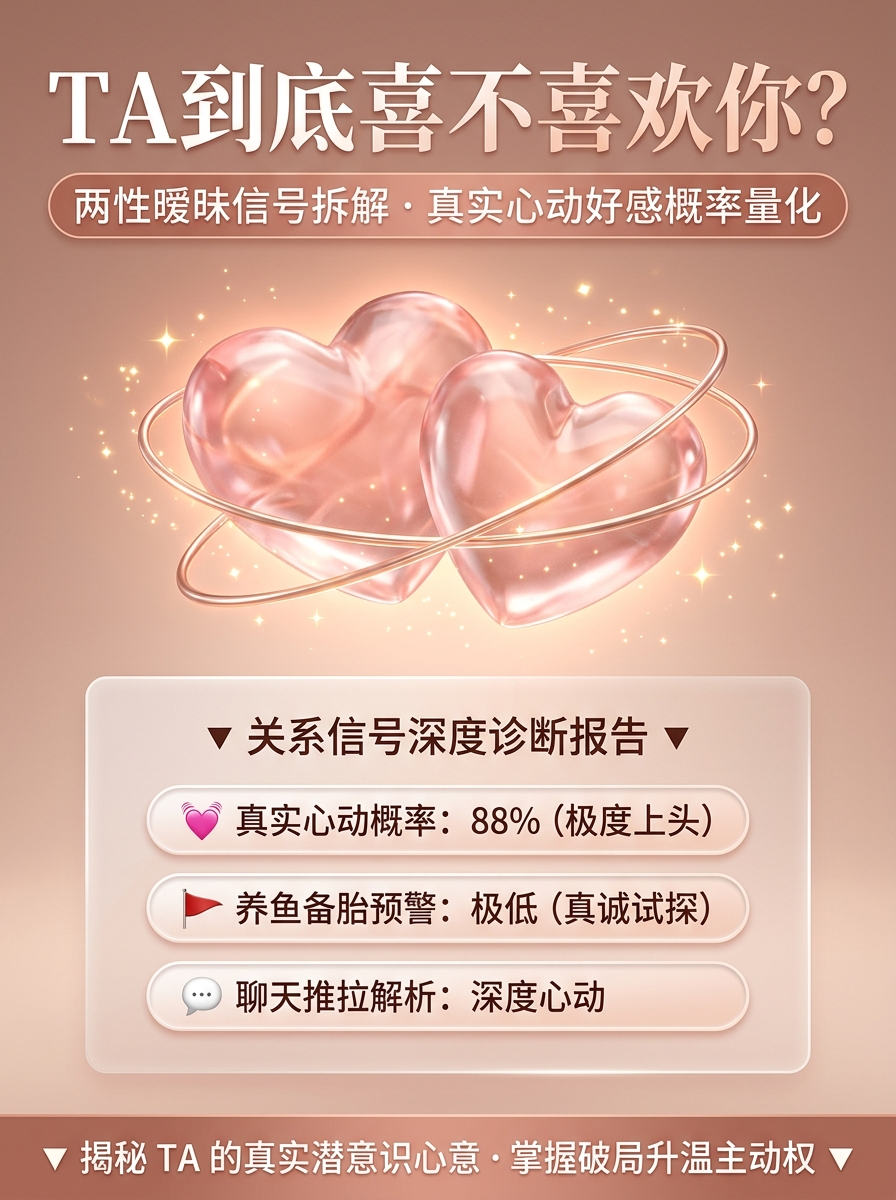
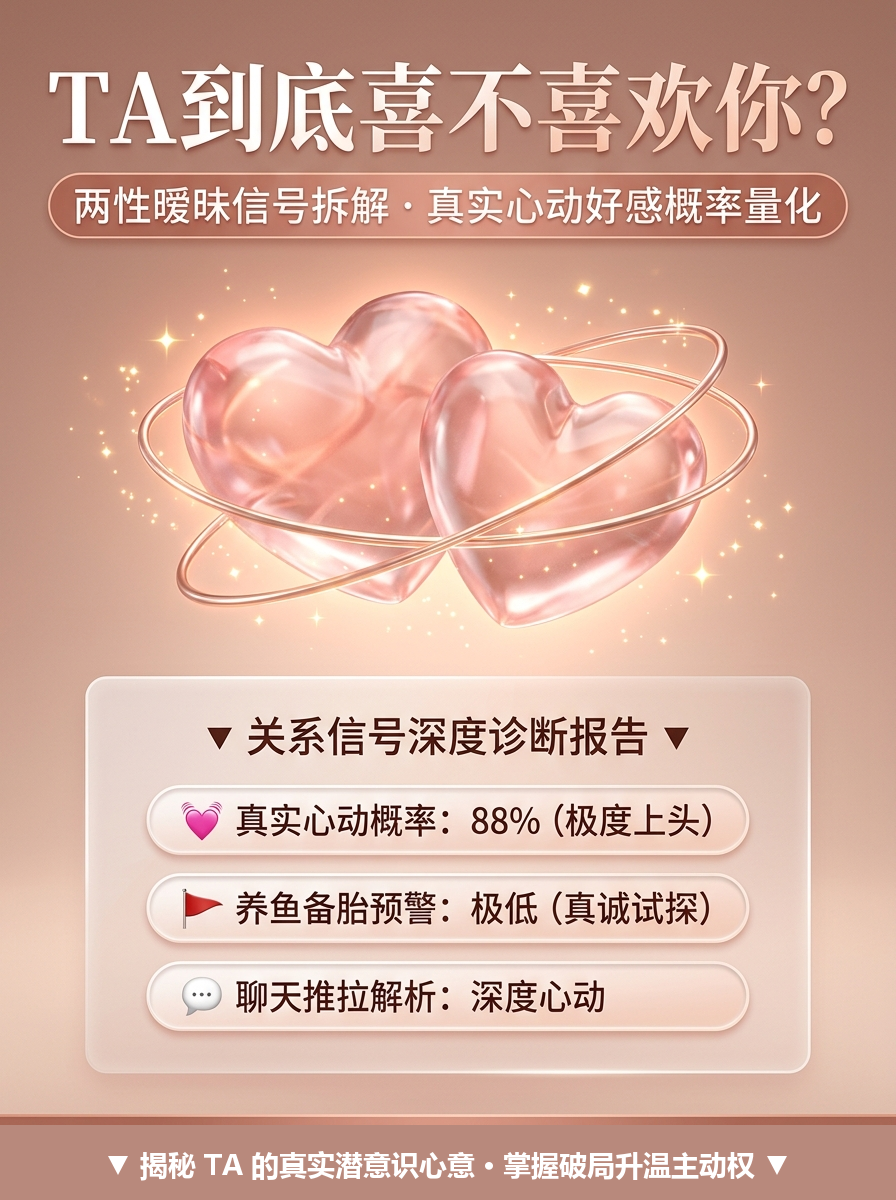
Remove '(约3分钟)' time indicators and '深度' from all buttons, titles, loading texts and pages

Changed region(s): [[0.0, 0.925, 1.0, 1.0]]

diff --git a/app.js b/app.js
@@ -366,7 +366,7 @@ var TEST_DATABASE = {
 
   dating_signal: {
     id: "dating_signal",
-    title: "他到底喜不喜欢你？关系信号深度拆解",
+    title: "他到底喜不喜欢你？关系信号拆解",
     subtitle: "8道题拆解他没说出口的关系信号",
     questions: [
       {
@@ -847,7 +847,7 @@ function initStandaloneTest(testId) {
       startBtn.style.background = "linear-gradient(90deg, #10b981 0%, #059669 100%)";
       startBtn.style.boxShadow = "0 4px 18px rgba(16,185,129,0.4)";
     } else {
-      startBtn.innerHTML = "🚀 立即开始深度测评 →";
+      startBtn.innerHTML = "🚀 立即开始测评 →";
     }
   }
 }
@@ -1319,7 +1319,7 @@ function calculateAttachmentResult() {
   var container = document.getElementById("resultContainer");
   container.innerHTML = `
     <div class="result-header-card">
-      <span class="result-badge">💕 恋爱依恋底色深度诊断</span>
+      <span class="result-badge">💕 恋爱依恋底色诊断</span>
       <h1 class="result-main-title">${res.emoji} ${mainStyle}</h1>
       <div class="result-subtitle">${res.title}</div>
       <p class="result-summary">${res.summary}</p>
@@ -1408,7 +1408,7 @@ function calculateBatteryResult() {
     </div>
 
     <div class="detail-card" style="margin-bottom:1.2rem;">
-      <h3 class="detail-card-title">🔍 续航状态深度剖析</h3>
+      <h3 class="detail-card-title">🔍 续航状态剖析</h3>
       <p style="font-size:0.95rem; color:var(--text-main); line-height:1.65;">${status.traits}</p>
     </div>
 
@@ -1556,7 +1556,7 @@ function calculateGAD7Result() {
     </div>
 
     <div class="detail-card" style="margin-bottom:1.2rem;">
-      <h3 class="detail-card-title">🧠 情绪状态深度解析</h3>
+      <h3 class="detail-card-title">🧠 情绪状态解析</h3>
       <p style="font-size:0.95rem; color:var(--text-main); line-height:1.65;">${res.analysis}</p>
     </div>
 
@@ -1600,7 +1600,7 @@ function calculateBigFiveResult() {
   var container = document.getElementById("resultContainer");
   container.innerHTML = `
     <div class="result-header-card">
-      <span class="result-badge">🌊 大五人格 (OCEAN) 深度画像报告</span>
+      <span class="result-badge">🌊 大五人格 (OCEAN) 画像报告</span>
       <h1 class="result-main-title">OCEAN Profile</h1>
       <div class="result-subtitle">学术级五大底层性格杠杆剖析</div>
       <p class="result-summary">大五人格模型（Big Five）是心理学界公认最严谨的特质测量体系。它从 5 个独立维度决定了你的行为习惯、决策偏好与情绪模式。</p>
@@ -1666,7 +1666,7 @@ function calculateMBTIResult() {
   var container = document.getElementById("resultContainer");
   container.innerHTML = `
     <div class="result-header-card">
-      <span class="result-badge">MBTI 深度人格诊断报告</span>
+      <span class="result-badge">MBTI 人格诊断报告</span>
       <h1 class="result-main-title">${type}</h1>
       <div class="result-subtitle">${detail.title}</div>
       <p class="result-summary">${detail.summary}</p>
@@ -1797,7 +1797,7 @@ function getMatrixRecommendHtml(currentTestId) {
   var matrixList = [
     { id: "mbti", icon: "🧠", title: "MBTI 16型人格专业测评", desc: "四大维度定位你的核心认知模式与职业优势" },
     { id: "gad7", icon: "😟", title: "GAD-7 焦虑与内耗测评", desc: "评估近两周情绪负荷、压力与内耗等级" },
-    { id: "dating_signal", icon: "💘", title: "关系信号深度拆解", desc: "拆解他没说出口的好感、投入度与关系承诺" },
+    { id: "dating_signal", icon: "💘", title: "关系信号拆解", desc: "拆解他没说出口的好感、投入度与关系承诺" },
     { id: "attachment", icon: "💕", title: "恋爱依恋类型测评", desc: "剖析你的亲密关系底色：安全型还是回避型" },
     { id: "bigfive", icon: "🌊", title: "大五人格专业测评", desc: "学术级 OCEAN 五大核心性格杠杆剖析" },
     { id: "battery", icon: "🔋", title: "社畜精神续航与发疯指数", desc: "测测心理剩余电量与抗压发疯极限" },

diff --git a/dating.html b/dating.html
@@ -3,7 +3,7 @@
 <head>
   <meta charset="UTF-8">
   <meta name="viewport" content="width=device-width, initial-scale=1.0">
-  <title>关系信号深度拆解（他到底喜不喜欢你） - 独立测评</title>
+  <title>关系信号拆解（他到底喜不喜欢你） - 独立测评</title>
   <meta name="description" content="从聊天互动、身体语言与细节态度，拆解 TA 对你的真实好感度">
   <link rel="stylesheet" href="styles.css">
 </head>
@@ -32,7 +32,7 @@
 
     <!-- Standalone Hero Intro Area -->
     <div id="heroIntro" class="hero-section">
-      <h1 class="hero-title">💘 他到底喜不喜欢你？<br><span class="hero-gradient-text">关系信号与好感度深度拆解</span></h1>
+      <h1 class="hero-title">💘 他到底喜不喜欢你？<br><span class="hero-gradient-text">关系信号与好感度拆解</span></h1>
       <p class="hero-subtitle">从聊天频率、身体微表情、眼神接触到肢体距离，多维度客观量化 TA 对你的真实心意。</p>
 
       <button class="btn btn-primary" onclick="checkAndStartTest('dating_signal')">
@@ -90,7 +90,7 @@
     <!-- Loading State -->
     <div id="loadingBox" class="loading-container" style="display:none;">
       <div class="spinner"></div>
-      <p class="loading-text">正在深度解析您的测评维度与性格特征模型...</p>
+      <p class="loading-text">正在解析您的测评维度与性格特征模型...</p>
     </div>
 
     <!-- Result Report Container -->

diff --git a/eq.html b/eq.html
@@ -33,7 +33,7 @@
     <!-- Standalone Hero Intro Area -->
     <div id="heroIntro" class="hero-section">
       <h1 class="hero-title">🎭 高情商与反PUA能力测评<br><span class="hero-gradient-text">测测你的情绪察觉力与社交心理界限</span></h1>
-      <p class="hero-subtitle">6 题场景模拟 · 评估同理心深度 · 识别社交道德绑架与防操控策略。</p>
+      <p class="hero-subtitle">6 题场景模拟 · 评估同理心 · 识别社交道德绑架与防操控策略。</p>
 
       <button class="btn btn-primary" onclick="checkAndStartTest('eq')">
         🚀 立即开始测试 →
@@ -90,7 +90,7 @@
     <!-- Loading State -->
     <div id="loadingBox" class="loading-container" style="display:none;">
       <div class="spinner"></div>
-      <p class="loading-text">正在深度解析您的测评维度与性格特征模型...</p>
+      <p class="loading-text">正在解析您的测评维度与性格特征模型...</p>
     </div>
 
     <!-- Result Report Container -->

diff --git a/attachment.html b/attachment.html
@@ -90,7 +90,7 @@
     <!-- Loading State -->
     <div id="loadingBox" class="loading-container" style="display:none;">
       <div class="spinner"></div>
-      <p class="loading-text">正在深度解析您的测评维度与性格特征模型...</p>
+      <p class="loading-text">正在解析您的测评维度与性格特征模型...</p>
     </div>
 
     <!-- Result Report Container -->

diff --git a/battery.html b/battery.html
@@ -90,7 +90,7 @@
     <!-- Loading State -->
     <div id="loadingBox" class="loading-container" style="display:none;">
       <div class="spinner"></div>
-      <p class="loading-text">正在深度解析您的测评维度与性格特征模型...</p>
+      <p class="loading-text">正在解析您的测评维度与性格特征模型...</p>
     </div>
 
     <!-- Result Report Container -->

diff --git a/bigfive.html b/bigfive.html
@@ -90,7 +90,7 @@
     <!-- Loading State -->
     <div id="loadingBox" class="loading-container" style="display:none;">
       <div class="spinner"></div>
-      <p class="loading-text">正在深度解析您的测评维度与性格特征模型...</p>
+      <p class="loading-text">正在解析您的测评维度与性格特征模型...</p>
     </div>
 
     <!-- Result Report Container -->

diff --git a/gad7.html b/gad7.html
@@ -90,7 +90,7 @@
     <!-- Loading State -->
     <div id="loadingBox" class="loading-container" style="display:none;">
       <div class="spinner"></div>
-      <p class="loading-text">正在深度解析您的测评维度与性格特征模型...</p>
+      <p class="loading-text">正在解析您的测评维度与性格特征模型...</p>
     </div>
 
     <!-- Result Report Container -->

diff --git a/holland.html b/holland.html
@@ -90,7 +90,7 @@
     <!-- Loading State -->
     <div id="loadingBox" class="loading-container" style="display:none;">
       <div class="spinner"></div>
-      <p class="loading-text">正在深度解析您的测评维度与性格特征模型...</p>
+      <p class="loading-text">正在解析您的测评维度与性格特征模型...</p>
     </div>
 
     <!-- Result Report Container -->

diff --git a/mbti.html b/mbti.html
@@ -90,7 +90,7 @@
     <!-- Loading State -->
     <div id="loadingBox" class="loading-container" style="display:none;">
       <div class="spinner"></div>
-      <p class="loading-text">正在深度解析您的测评维度与性格特征模型...</p>
+      <p class="loading-text">正在解析您的测评维度与性格特征模型...</p>
     </div>
 
     <!-- Result Report Container -->

diff --git a/小红书8款产品上架全套文案手册.md b/小红书8款产品上架全套文案手册.md
@@ -31,13 +31,7 @@
 4. 使用保障：如遇链接卡顿或无法打开，请随时私信客服，我们随时为您处理！
 ━━━━━━━━━━━━━━━━━━━━
 ```
-* **🤖 自动发货私信文案**：
-```text
-亲爱的宝子，您的【MBTI 16型人格深度测评】专属入口已生成：
-👉 点击专属链接直接开始（已自动解锁）：
-https://www.cs313.cn/mbti.html?key=VIP888
-🔑 备用解锁卡密：VIP888
-💡 凭第一直觉作答即可，测完生成高清全景分析报告，祝探索愉快！
+
 ```
 * **🚀 配套发笔记文案**：
 ```text
@@ -82,13 +76,7 @@ https://www.cs313.cn/mbti.html?key=VIP888
 4. 使用保障：如遇链接卡顿或无法打开，请随时私信客服，我们随时为您处理！
 ━━━━━━━━━━━━━━━━━━━━
 ```
-* **🤖 自动发货私信文案**：
-```text
-宝子好，已为您自动开通【GAD-7 焦虑与内耗测评】专属通道：
-👉 点击专属免激活链接直接开测：
-https://www.cs313.cn/gad7.html?key=VIP888
-🔑 备用解锁卡密：VIP888
-💡 请根据近两周的真实心理状态作答，测完立即生成报告，愿你被温柔以待～
+
 ```
 * **🚀 配套发笔记文案**：
 ```text
@@ -134,13 +122,7 @@ https://www.cs313.cn/gad7.html?key=VIP888
 4. 使用保障：如遇链接卡顿或无法打开，请随时私信客服，我们随时为您处理！
 ━━━━━━━━━━━━━━━━━━━━
 ```
-* **🤖 自动发货私信文案**：
-```text
-宝子好，您的【恋爱依恋类型深度测评】专属入口已就绪：
-👉 点击专属链接直接测试（已免密解锁）：
-https://www.cs313.cn/attachment.html?key=VIP888
-🔑 备用解锁卡密：VIP888
-💡 凭直觉作答即可，测完生成高清依恋画像与破局建议，祝收获稳稳的幸福！
+
 ```
 * **🚀 配套发笔记文案**：
 ```text
@@ -186,13 +168,7 @@ https://www.cs313.cn/attachment.html?key=VIP888
 4. 使用保障：如遇链接卡顿或无法打开，请随时私信客服，我们随时为您处理！
 ━━━━━━━━━━━━━━━━━━━━
 ```
-* **🤖 自动发货私信文案**：
-```text
-哈喽宝子！【TA到底喜不喜欢你·关系信号拆解】通道已开通：
-👉 点击链接直接进入测试：
-https://www.cs313.cn/dating.html?key=VIP888
-🔑 备用解锁卡密：VIP888
-💡 回忆 TA 与你平时的真实互动细节作答，测完即揭晓心动概率与下一步行动指南！
+
 ```
 * **🚀 配套发笔记文案**：
 ```text
@@ -238,13 +214,7 @@ TA到底是在小心翼翼试探，还是把你当备胎？
 4. 使用保障：如遇链接卡顿或无法打开，请随时私信客服，我们随时为您处理！
 ━━━━━━━━━━━━━━━━━━━━
 ```
-* **🤖 自动发货私信文案**：
-```text
-您好！您的【大五人格 OCEAN 专业测评】专属通道已生成：
-👉 点击专属链接开始作答（已自动解锁）：
-https://www.cs313.cn/bigfive.html?key=VIP888
-🔑 备用解锁卡密：VIP888
-💡 测完即可生成完整五维人格画像，祝您收获全新自我认知！
+
 ```
 * **🚀 配套发笔记文案**：
 ```text
@@ -289,13 +259,7 @@ https://www.cs313.cn/bigfive.html?key=VIP888
 4. 使用保障：如遇链接卡顿或无法打开，请随时私信客服，我们随时为您处理！
 ━━━━━━━━━━━━━━━━━━━━
 ```
-* **🤖 自动发货私信文案**：
-```text
-打工人辛苦啦！您的【社畜精神续航与发疯指数测评】已开通：
-👉 点击链接直接开测（已自动解锁）：
-https://www.cs313.cn/battery.html?key=VIP888
-🔑 备用解锁卡密：VIP888
-💡 做完测试测测剩余电量，给自己放个松，祝早日暴富！
+
 ```
 * **🚀 配套发笔记文案**：
 ```text
@@ -340,13 +304,7 @@ https://www.cs313.cn/battery.html?key=VIP888
 4. 使用保障：如遇链接卡顿或无法打开，请随时私信客服，我们随时为您处理！
 ━━━━━━━━━━━━━━━━━━━━
 ```
-* **🤖 自动发货私信文案**：
-```text
-宝子好！您的【高情商社交与防PUA测评】专属通道已就绪：
-👉 点击链接直接进入测评（已免密解锁）：
-https://www.cs313.cn/eq.html?key=VIP888
-🔑 备用解锁卡密：VIP888
-💡 提示：完成情境问答，立即获取您的社交防御指数与高情商沟通秘籍！
+
 ```
 * **🚀 配套发笔记文案**：
 ```text
@@ -391,14 +349,7 @@ https://www.cs313.cn/eq.html?key=VIP888
 3. 专业免责：本测评报告基于心理学统计模型与经典量表生成，主要用于自我探索、趣味测试与认知参考，不具备任何临床医疗诊断效力。
 4. 使用保障：如遇链接卡顿或无法打开，请随时私信客服，我们随时为您处理！
 ━━━━━━━━━━━━━━━━━━━━
-```
-* **🤖 自动发货私信文案**：
-```text
-您好！您的【霍兰德职业兴趣测评 RIASEC】专属测试通道已开通：
-👉 点击专属链接直接测试（已自动解锁）：
-https://www.cs313.cn/holland.html?key=VIP888
-🔑 备用解锁卡密：VIP888
-💡 测完即可获取您的 3 位霍兰德代码与专属职业推荐报告，祝前程似锦！
+
 ```
 * **🚀 配套发笔记文案**：
 ```text
